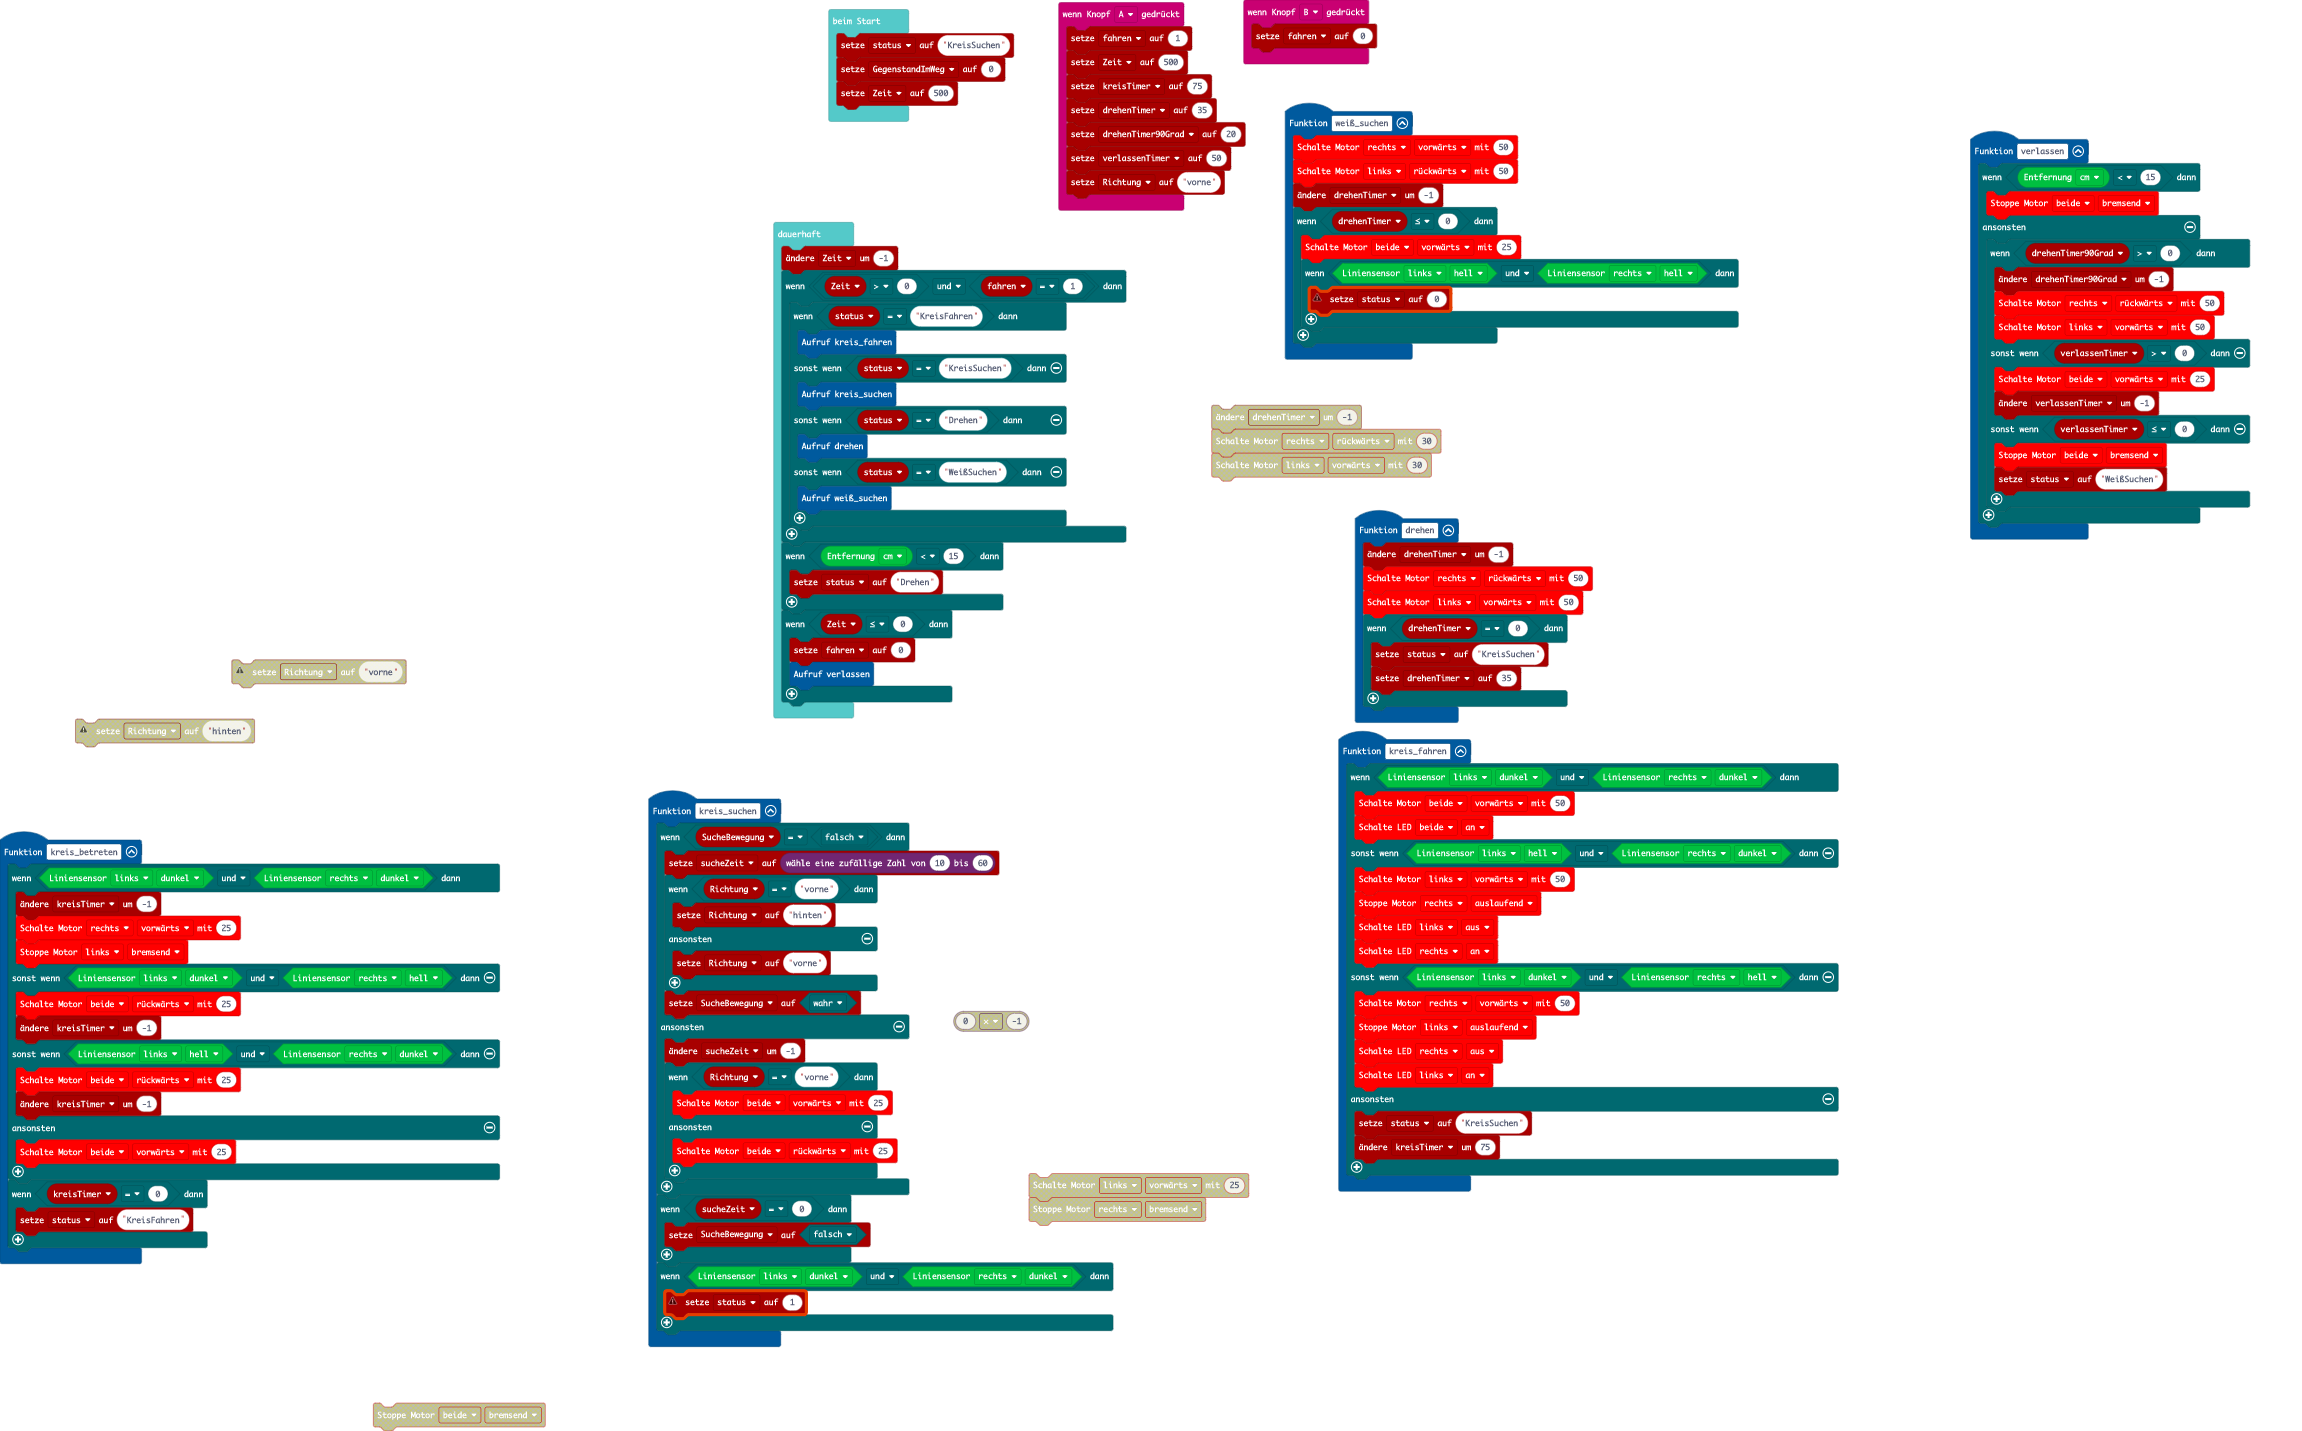
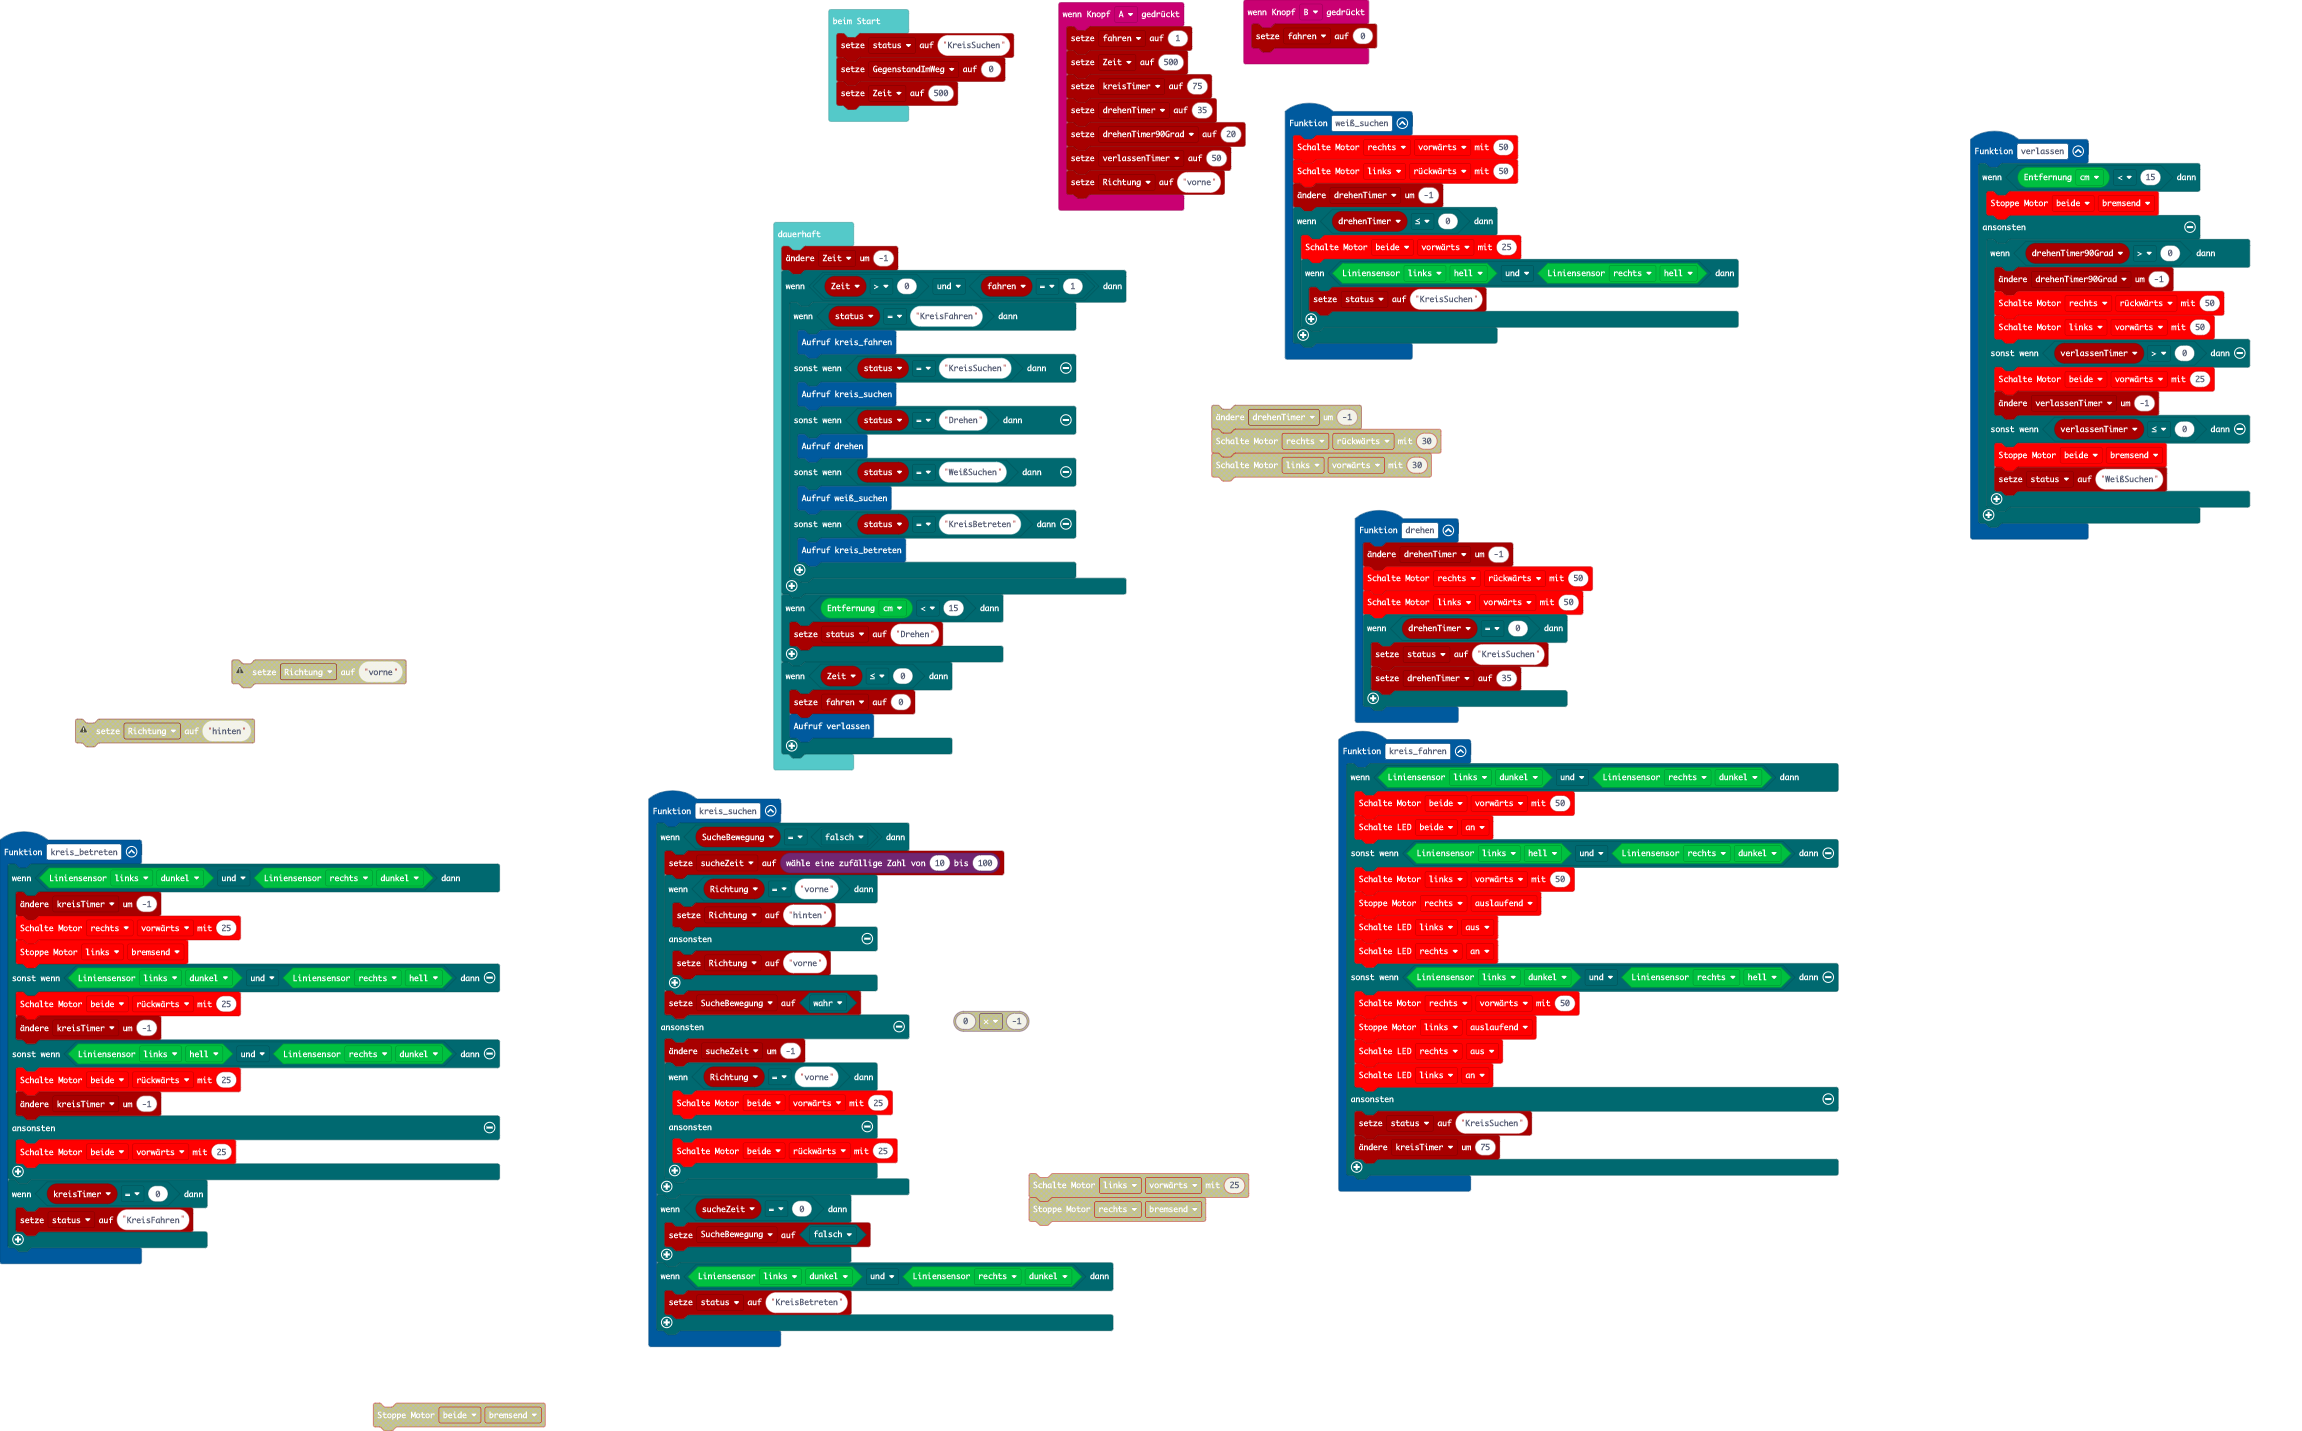
Übergang von suche Kreis zu betrete Kreis

diff --git a/main.ts b/main.ts
@@ -58,13 +58,13 @@ function weiß_suchen () {
     if (drehenTimer <= 0) {
         callibot.motor(KMotor.beide, KDir.vorwärts, 25)
         if (callibot.readLineSensor(KSensor.links, KSensorStatus.hell) && callibot.readLineSensor(KSensor.rechts, KSensorStatus.hell)) {
-            status = 0
+            status = "KreisSuchen"
         }
     }
 }
 function kreis_suchen () {
     if (SucheBewegung == false) {
-        sucheZeit = randint(10, 60)
+        sucheZeit = randint(10, 100)
         if (Richtung == "vorne") {
             Richtung = "hinten"
         } else {
@@ -83,7 +83,7 @@ function kreis_suchen () {
         SucheBewegung = false
     }
     if (callibot.readLineSensor(KSensor.links, KSensorStatus.dunkel) && callibot.readLineSensor(KSensor.rechts, KSensorStatus.dunkel)) {
-        status = 1
+        status = "KreisBetreten"
     }
 }
 input.onButtonPressed(Button.B, function () {
@@ -132,6 +132,8 @@ basic.forever(function () {
             drehen()
         } else if (status == "WeißSuchen") {
             weiß_suchen()
+        } else if (status == "KreisBetreten") {
+            kreis_betreten()
         }
     }
     if (callibot.entfernung(KEinheit.cm) < 15) {
